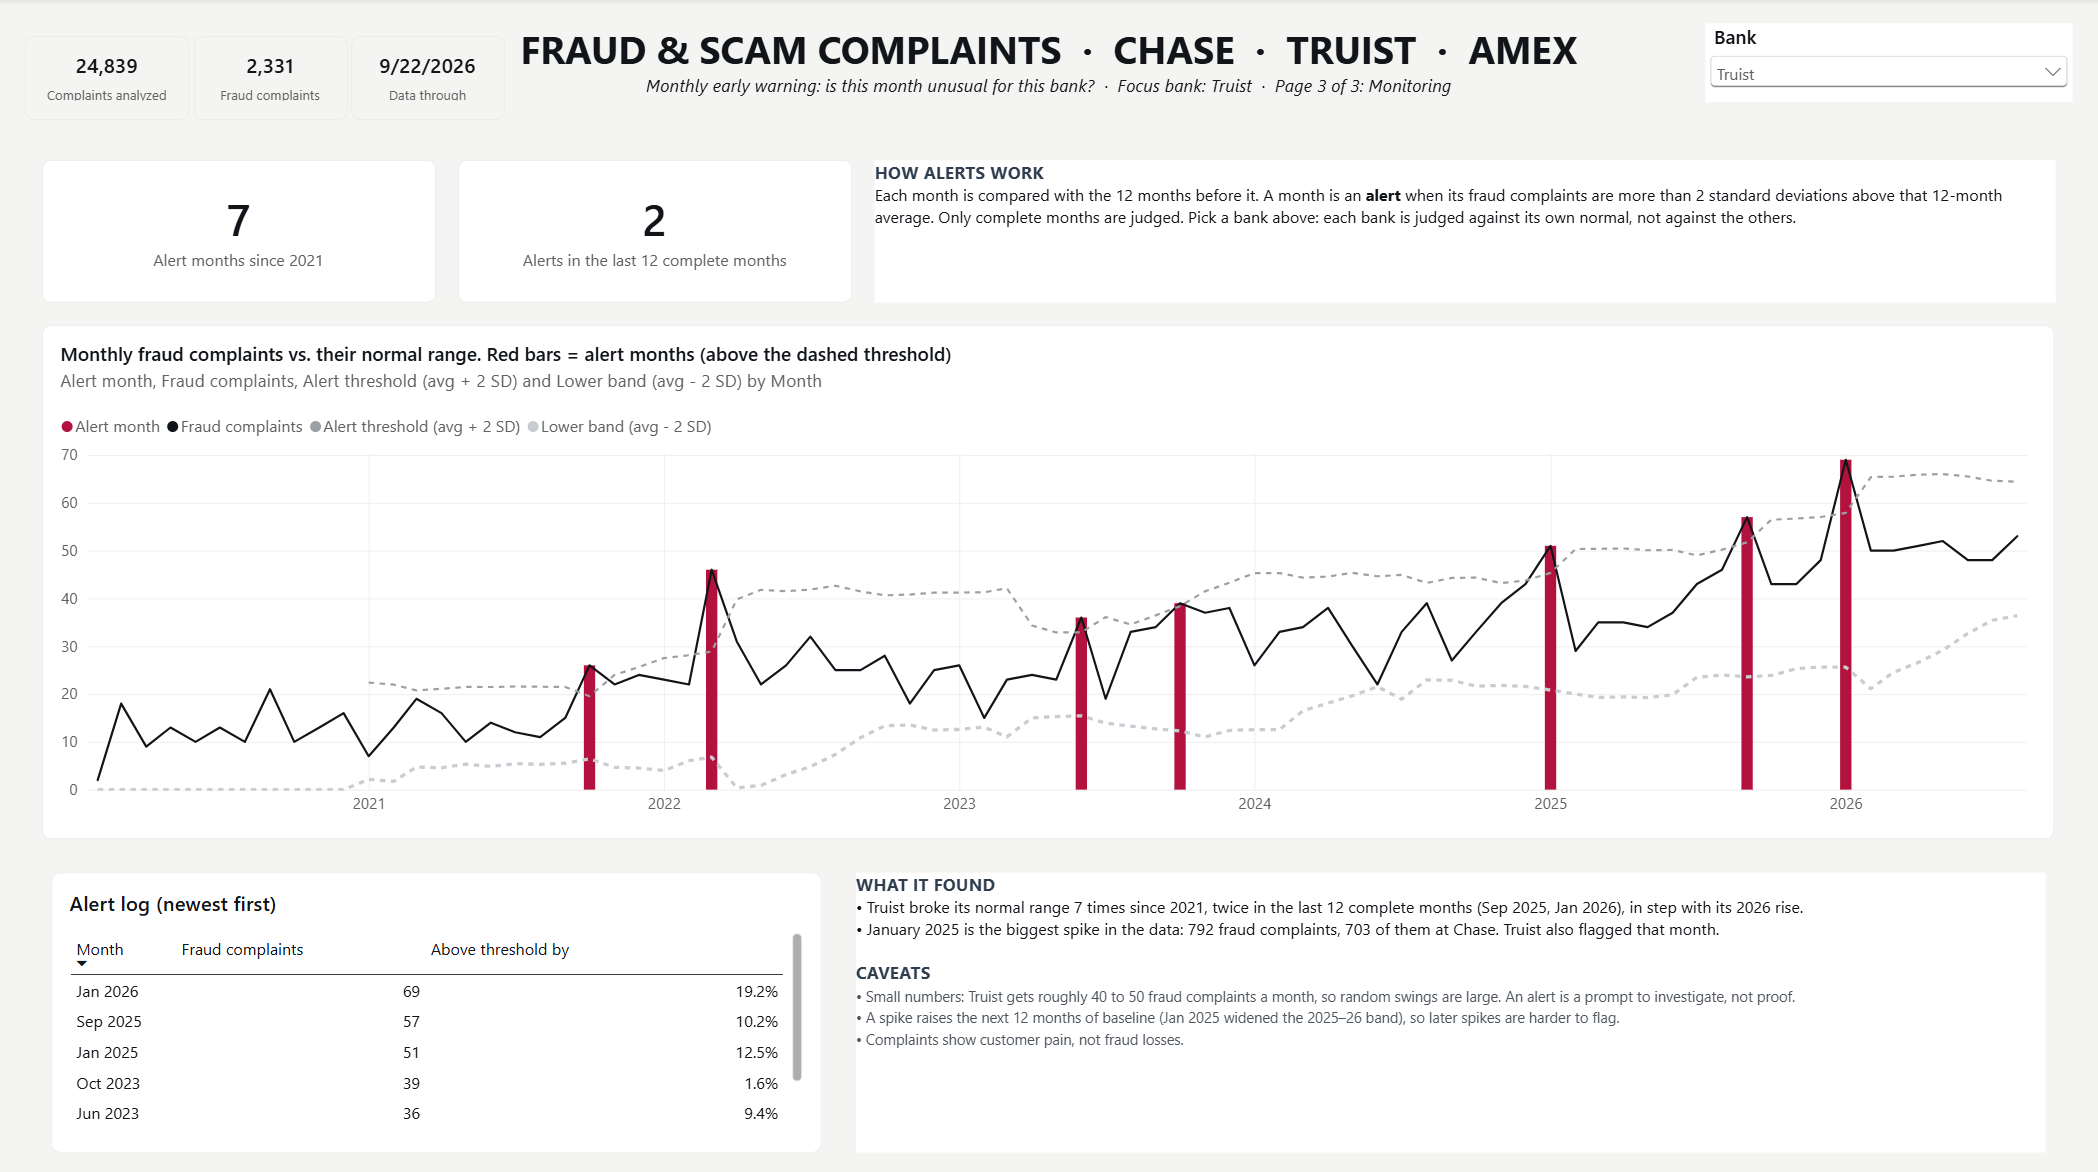
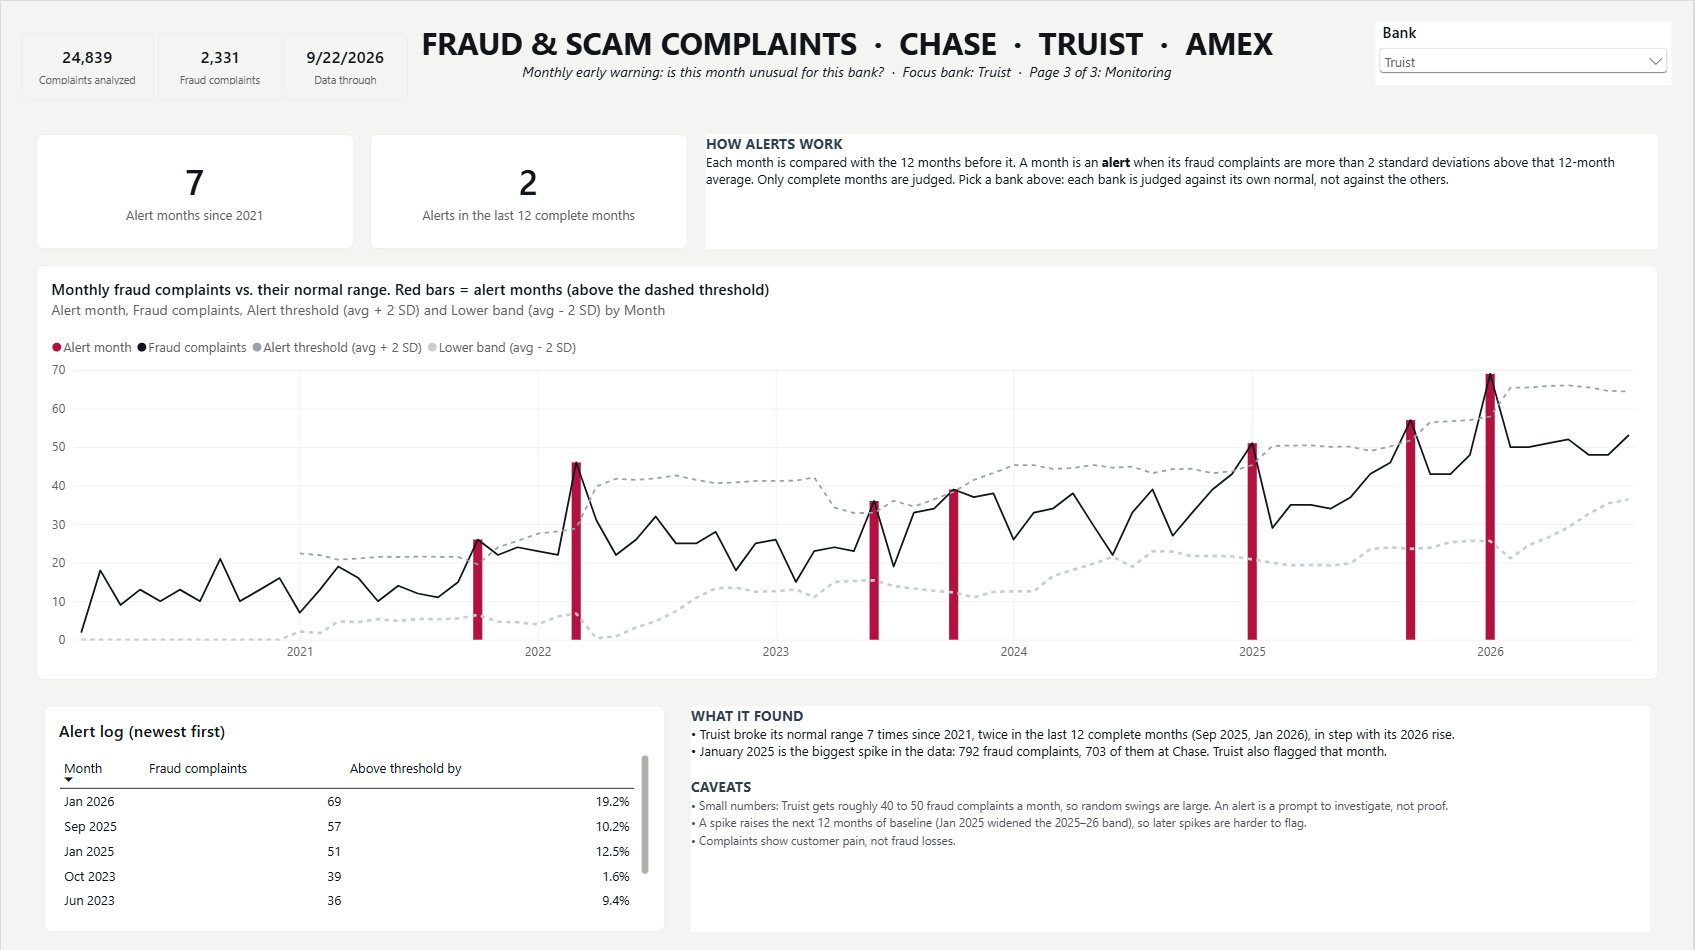
Dashboard fixes, header counters, updated screenshots and README

diff --git a/README.md b/README.md
@@ -19,7 +19,7 @@ Chase receives far more fraud complaints than Truist, but it also holds about 6.
 | Truist | 12.2 | **14.8** |
 
 **2. Truist's increase is real fraud, not noise in the definition.**
-Even after removing the borderline category (money-transfer complaints that aren't clearly fraud), Truist's fraud complaints are on pace to grow **24%** this year. Identity-theft complaints lead the rise (+35%).
+Even after removing the borderline category (money-transfer complaints that aren't clearly fraud), Truist's fraud complaints are on pace to grow **24%** this year. Identity-theft complaints add the most to that increase (+35%, the largest jump of any type), although unauthorized transactions are still Truist's largest fraud category overall.
 
 **3. Identity-theft victims at Truist rarely get help.**
 Of closed identity-theft complaints, **3.8%** at Truist ended with some kind of relief. At Chase it was about 29%, at Amex about 32%.
